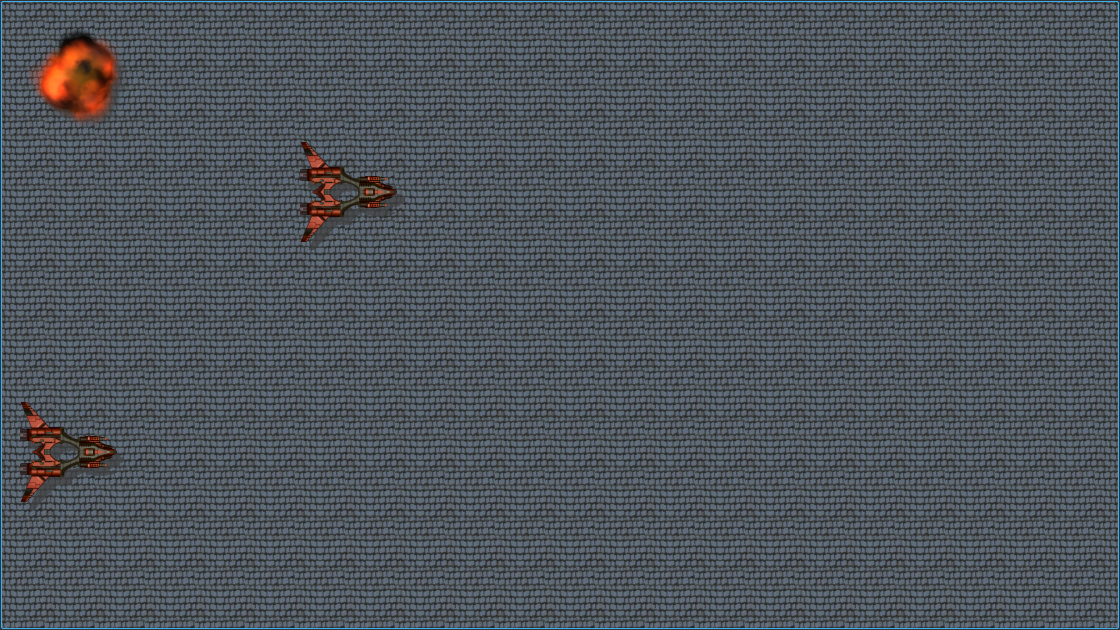
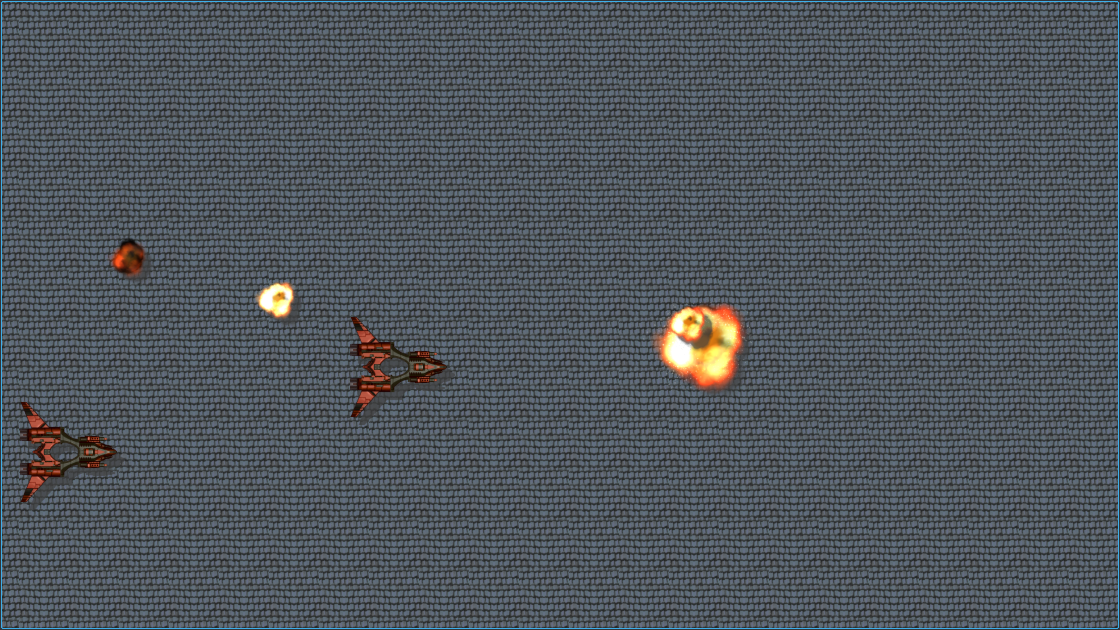
Project Update

diff --git a/Sources/Source Files/Widgets/MyGame.cpp b/Sources/Source Files/Widgets/MyGame.cpp
@@ -126,7 +126,8 @@ void MyGame::timerEvent(QTimerEvent *event) {
 			foreach(QGraphicsItem *i, items) {
 			if (dynamic_cast<MyAlien *>(i)) {
 				dynamic_cast<MyAlien *>(i)->updt();
-				if (dynamic_cast<MyAlien *>(i)->sceneBoundingRect().right() < sceneRect().left() ||
+				if (!dynamic_cast<MyAlien *>(i)->isVisible() ||
+				    dynamic_cast<MyAlien *>(i)->sceneBoundingRect().right() < sceneRect().left() ||
 				    dynamic_cast<MyAlien *>(i)->sceneBoundingRect().top() > sceneRect().bottom() ||
 				    dynamic_cast<MyAlien *>(i)->sceneBoundingRect().bottom() < sceneRect().top()) {
 					dynamic_cast<MyAlien *>(i)->killTimer(dynamic_cast<MyAlien *>(i)->getTmr_id());
@@ -135,7 +136,8 @@ void MyGame::timerEvent(QTimerEvent *event) {
 			}
 			else if (dynamic_cast<MyAsteroid *>(i)) {
 				dynamic_cast<MyAsteroid *>(i)->updt();
-				if (dynamic_cast<MyAsteroid *>(i)->sceneBoundingRect().right() < sceneRect().left() ||
+				if (!dynamic_cast<MyAsteroid *>(i)->isVisible() ||
+				    dynamic_cast<MyAsteroid *>(i)->sceneBoundingRect().right() < sceneRect().left() ||
 				    dynamic_cast<MyAsteroid *>(i)->sceneBoundingRect().top() > sceneRect().bottom() ||
 				    dynamic_cast<MyAsteroid *>(i)->sceneBoundingRect().bottom() < sceneRect().top()) {
 					scene()->removeItem(i);
@@ -162,7 +164,8 @@ void MyGame::timerEvent(QTimerEvent *event) {
 			}
 			else if (dynamic_cast<MyLife *>(i)) {
 				dynamic_cast<MyLife *>(i)->updt();
-				if (dynamic_cast<MyLife *>(i)->sceneBoundingRect().right() < sceneRect().left() ||
+				if (!dynamic_cast<MyLife *>(i)->isVisible() ||
+				    dynamic_cast<MyLife *>(i)->sceneBoundingRect().right() < sceneRect().left() ||
 				    dynamic_cast<MyLife *>(i)->sceneBoundingRect().top() > sceneRect().bottom() ||
 				    dynamic_cast<MyLife *>(i)->sceneBoundingRect().bottom() < sceneRect().top()) {
 					scene()->removeItem(i);
@@ -170,7 +173,8 @@ void MyGame::timerEvent(QTimerEvent *event) {
 			}
 			else if (dynamic_cast<MyMagic *>(i)) {
 				dynamic_cast<MyMagic *>(i)->updt();
-				if (dynamic_cast<MyMagic *>(i)->sceneBoundingRect().right() < sceneRect().left() ||
+				if (!dynamic_cast<MyMagic *>(i)->isVisible() ||
+				    dynamic_cast<MyMagic *>(i)->sceneBoundingRect().right() < sceneRect().left() ||
 				    dynamic_cast<MyMagic *>(i)->sceneBoundingRect().top() > sceneRect().bottom() ||
 				    dynamic_cast<MyMagic *>(i)->sceneBoundingRect().bottom() < sceneRect().top()) {
 					scene()->removeItem(i);
@@ -178,7 +182,8 @@ void MyGame::timerEvent(QTimerEvent *event) {
 			}
 			else if (dynamic_cast<MyShield *>(i)) {
 				dynamic_cast<MyShield *>(i)->updt();
-				if (dynamic_cast<MyShield *>(i)->sceneBoundingRect().right() < sceneRect().left() ||
+				if (!dynamic_cast<MyShield *>(i)->isVisible() ||
+				    dynamic_cast<MyShield *>(i)->sceneBoundingRect().right() < sceneRect().left() ||
 				    dynamic_cast<MyShield *>(i)->sceneBoundingRect().top() > sceneRect().bottom() ||
 				    dynamic_cast<MyShield *>(i)->sceneBoundingRect().bottom() < sceneRect().top()) {
 					scene()->removeItem(i);
@@ -192,7 +197,8 @@ void MyGame::timerEvent(QTimerEvent *event) {
 			}
 			else if (dynamic_cast<MyStar *>(i)) {
 				dynamic_cast<MyStar *>(i)->updt();
-				if (dynamic_cast<MyStar *>(i)->sceneBoundingRect().right() < sceneRect().left() ||
+				if (!dynamic_cast<MyStar *>(i)->isVisible() ||
+				    dynamic_cast<MyStar *>(i)->sceneBoundingRect().right() < sceneRect().left() ||
 				    dynamic_cast<MyStar *>(i)->sceneBoundingRect().top() > sceneRect().bottom() ||
 				    dynamic_cast<MyStar *>(i)->sceneBoundingRect().bottom() < sceneRect().top()) {
 					scene()->removeItem(i);

diff --git a/Sources/Source Files/Game Objects/MyShip.cpp b/Sources/Source Files/Game Objects/MyShip.cpp
@@ -175,17 +175,20 @@ void MyShip::cllsn_dtctn() {
 			if (dynamic_cast<MyLife *>(i)) {
 				ply_sf(const_cast<QString &>(MyRes::sf_lf_add));
 				lf++;
-				scene()->removeItem(i);
+//				scene()->removeItem(i);
+				dynamic_cast<MyLife *>(i)->hide();
 			}
 			else if (dynamic_cast<MyMagic *>(i)) {
 				ply_sf(const_cast<QString &>(MyRes::sf_mgc_add));
 				activate_mgc();
-				scene()->removeItem(i);
+//				scene()->removeItem(i);
+				dynamic_cast<MyMagic *>(i)->hide();
 			}
 			else if (dynamic_cast<MyShield *>(i)) {
 				ply_sf(const_cast<QString &>(MyRes::sf_shld_add));
 				activate_shld();
-				scene()->removeItem(i);
+//				scene()->removeItem(i);
+				dynamic_cast<MyShield *>(i)->hide();
 			}
 			else if (dynamic_cast<MyShip *>(i)) {
 				ply_sf(const_cast<QString &>(MyRes::sf_shp_shp_add));
@@ -199,7 +202,8 @@ void MyShip::cllsn_dtctn() {
 			else if (dynamic_cast<MyStar *>(i)) {
 				ply_sf(const_cast<QString &>(MyRes::sf_str_add));
 				scr++;
-				scene()->removeItem(i);
+//				scene()->removeItem(i);
+				dynamic_cast<MyStar *>(i)->hide();
 			}
 			else if (dynamic_cast<MyAlien *>(i)) {
 				if (dynamic_cast<MyAlien *>(i)->getTyp() == 0) {
@@ -226,7 +230,8 @@ void MyShip::cllsn_dtctn() {
 				}
 				lf--;
 				dynamic_cast<MyAlien *>(i)->killTimer(dynamic_cast<MyAlien *>(i)->getTmr_id());
-				scene()->removeItem(i);
+//				scene()->removeItem(i);
+				dynamic_cast<MyAlien *>(i)->hide();
 			}
 			else if (dynamic_cast<MyAsteroid *>(i)) {
 				ply_sf(const_cast<QString &>(MyRes::sf_expln_astrd_add));
@@ -238,7 +243,8 @@ void MyShip::cllsn_dtctn() {
 						(MyRes::expln_astrd_size.height() / 2) + MyRes::expln_astrd_crrctn);
 				scene()->addItem(expln);
 				lf--;
-				scene()->removeItem(i);
+//				scene()->removeItem(i);
+				dynamic_cast<MyAsteroid *>(i)->hide();
 			}
 			else if (dynamic_cast<MyBullet *>(i)) {
 				ply_sf(const_cast<QString &>(MyRes::sf_expln_lsr_add));
@@ -249,7 +255,8 @@ void MyShip::cllsn_dtctn() {
 				              (MyRes::expln_lsr_size.height() / 2) + MyRes::expln_lsr_crrctn);
 				scene()->addItem(expln);
 				lf--;
-				scene()->removeItem(i);
+//				scene()->removeItem(i);
+				dynamic_cast<MyBullet *>(i)->hide();
 			}
 		}
 }

diff --git a/Sources/Source Files/Game Objects/MyAlien.cpp b/Sources/Source Files/Game Objects/MyAlien.cpp
@@ -20,7 +20,7 @@ MyAlien::MyAlien() :
 		                                                                             Qt::SmoothTransformation));
 	}
 
-	vlc = new QPointF(0, 0);
+	vlc = new QPointF(0, 10);
 	tmr_id = startTimer(MyRes::aln_lsrdly);
 }
 
@@ -60,8 +60,38 @@ void MyAlien::game_unpaused() {
 	}
 }
 
+/*void MyAlien::updt_pos() {
+	QPointF tplft(scene()->views().first()->viewport()->mapToParent(
+			scene()->views().first()->mapFromScene(mapToScene(boundingRect().topLeft()))));
+	QPointF bttmrght(scene()->views().first()->viewport()->mapToParent(
+			scene()->views().first()->mapFromScene(mapToScene(boundingRect().bottomRight()))));
+	QRectF vw_rct(scene()->views().first()->viewport()->rect());
+	if ((tplft.y() + vlc->y() >= MyRes::y_offset && bttmrght.y() + vlc->y() <= vw_rct.height() - MyRes::y_offset) ||
+	    (tplft.y() + vlc->y() < MyRes::y_offset && vlc->y() > 0) ||
+	    ((bttmrght.y() + vlc->y() > vw_rct.height() - MyRes::y_offset) && vlc->y() < 0)) {
+		setPos(pos().x(), pos().y() + vlc->y());
+	}
+	else {
+		vlc->setY(vlc->y() * (-1));
+	}
+}*/
+
 void MyAlien::updt() {
-	setPos(pos().x() + vlc->x(), pos().y() + vlc->y());
+//	setPos(pos().x() + vlc->x(), pos().y() + vlc->y());
+//	updt_pos();
+	double tplft_y = scene()->views().first()->viewport()->mapToParent(
+			scene()->views().first()->mapFromScene(mapToScene(boundingRect().topLeft()))).y();
+	double bttmrght_y = scene()->views().first()->viewport()->mapToParent(
+			scene()->views().first()->mapFromScene(mapToScene(boundingRect().bottomRight()))).y();
+	double vw_rct_height = scene()->views().first()->viewport()->rect().height();
+	if ((tplft_y + vlc->y() >= MyRes::y_offset && bttmrght_y + vlc->y() <= vw_rct_height - MyRes::y_offset) ||
+	    (tplft_y + vlc->y() < MyRes::y_offset && vlc->y() > 0) ||
+	    ((bttmrght_y + vlc->y() > vw_rct_height - MyRes::y_offset) && vlc->y() < 0)) {
+		setPos(pos().x(), pos().y() + vlc->y());
+	}
+	else {
+		vlc->setY(vlc->y() * (-1));
+	}
 }
 
 void MyAlien::ply_sf(QString &add) {
@@ -82,5 +112,3 @@ void MyAlien::timerEvent(QTimerEvent *event) {
 		scene()->addItem(tmp);
 	}
 }
-
-

diff --git a/Sources/Source Files/Game Objects/MyShipShield.cpp b/Sources/Source Files/Game Objects/MyShipShield.cpp
@@ -40,7 +40,8 @@ void MyShipShield::cllsn_dtctn() {
 						dynamic_cast<MyAsteroid *>(i)->y() + (dynamic_cast<MyAsteroid *>(i)->pixmap().height() / 2) -
 								(MyRes::expln_astrd_size.height() / 2) + MyRes::expln_astrd_crrctn);
 				scene()->addItem(expln);
-				scene()->removeItem(i);
+//				scene()->removeItem(i);
+				dynamic_cast<MyAsteroid *>(i)->hide();
 			}
 			if (dynamic_cast<MyBullet *>(i) && isVisible()) {
 				ply_sf(const_cast<QString &>(MyRes::sf_expln_lsr_add));
@@ -50,7 +51,8 @@ void MyShipShield::cllsn_dtctn() {
 				              dynamic_cast<MyBullet *>(i)->y() + (dynamic_cast<MyBullet *>(i)->pixmap().height() / 2) -
 						              (MyRes::expln_lsr_size.height() / 2) + MyRes::expln_lsr_crrctn);
 				scene()->addItem(expln);
-				scene()->removeItem(i);
+//				scene()->removeItem(i);
+				dynamic_cast<MyBullet *>(i)->hide();
 			}
 			else if (dynamic_cast<MyAlien *>(i) && isVisible()) {
 				if (dynamic_cast<MyAlien *>(i)->getTyp() == 0) {
@@ -75,7 +77,8 @@ void MyShipShield::cllsn_dtctn() {
 				}
 				ply_sf(const_cast<QString &>(MyRes::sf_expln_shpshld_add));
 				dynamic_cast<MyAlien *>(i)->killTimer(dynamic_cast<MyAlien *>(i)->getTmr_id());
-				scene()->removeItem(i);
+//				scene()->removeItem(i);
+				dynamic_cast<MyAlien *>(i)->hide();
 				emit shieldDestroyd();
 			}
 			else if (dynamic_cast<MyShipShield *>(i) && dynamic_cast<MyShipShield *>(i)->isVisible() && isVisible()) {

diff --git a/Sources/Source Files/Game Objects/MyBullet.cpp b/Sources/Source Files/Game Objects/MyBullet.cpp
@@ -65,7 +65,8 @@ void MyBullet::cllsn_dtctn() {
 				scene()->addItem(expln);
 
 				dynamic_cast<MyAlien *>(i)->killTimer(dynamic_cast<MyAlien *>(i)->getTmr_id());
-				scene()->removeItem(i);
+				dynamic_cast<MyAlien *>(i)->hide();
+//				scene()->removeItem(i);
 				hide();
 				ply_sf(const_cast<QString &>(MyRes::sf_str_add));
 				emit scrGained();
@@ -87,7 +88,8 @@ void MyBullet::cllsn_dtctn() {
 				              MyRes::expln_lsr_crrctn);
 				scene()->addItem(expln);
 
-				scene()->removeItem(i);
+				dynamic_cast<MyAsteroid *>(i)->hide();
+//				scene()->removeItem(i);
 				hide();
 			}
 		}

diff --git a/Sources/Headers/Game Objects/MyAlien.h b/Sources/Headers/Game Objects/MyAlien.h
@@ -30,6 +30,8 @@ public:
 
 	void change_speed();
 
+	void updt_pos();
+
 	void updt();
 
 	void ply_sf(QString &);
